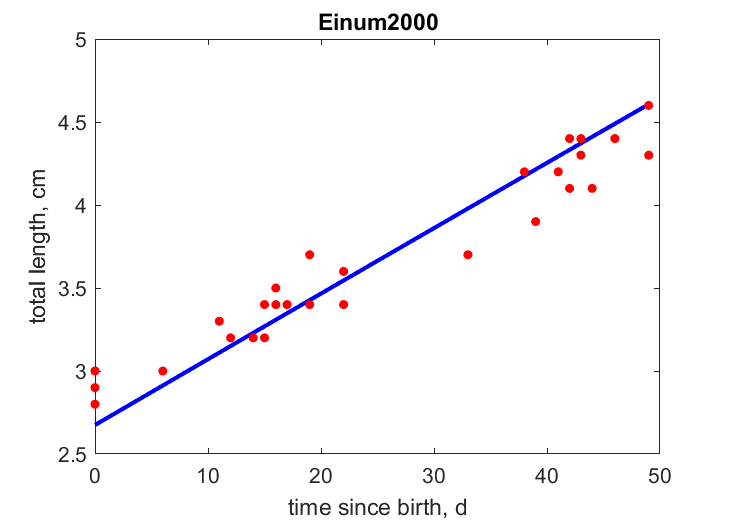
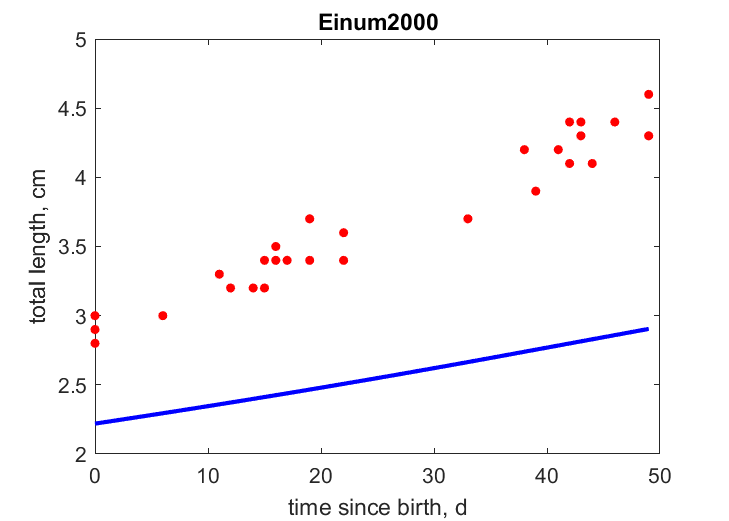
minor updates

diff --git a/abj model/mydata_Salmo_salar.m b/abj model/mydata_Salmo_salar.m
@@ -25,10 +25,10 @@ metaData.date_subm_mod_1 = [2019 03 13];
 metaData.email_mod_1    = {'sylvie.oddou(at)inra.fr'};            
 metaData.address_mod_1  = {'Research unit "Ecology of Mediterranean Forests", National Institute for Agronomic Research, France'};   
 
-metaData.author   = {'Helene Baillif'};    
-metaData.date_subm = [2019 03 13];              
-metaData.email    = {''};            
-metaData.address  = {'Joint research unit "Behavioral Ecology and Fish Population Biology", National Institute for Agronomic Research - University Pau Pays de l''ADour, France'};   
+metaData.author_mod_2   = {'Helene Baillif'};    
+metaData.date_subm_mod_2 = [2019 03 13];              
+metaData.email_mod_2    = {''};            
+metaData.address_mod_2  = {'Joint research unit "Behavioral Ecology and Fish Population Biology", National Institute for Agronomic Research - University Pau Pays de l''ADour, France'};   
 
 %% set data
 %% zero-variate data
@@ -1405,11 +1405,11 @@ txtData.bibkey = bibkey;
 txtData.comment = comment;
 
 %% Group plots
-set1 = {'tL_f0','tL_f25','tL_f50','tL_f75','tL_f100'}; comment1 = {''};
-set2 = {'tWw_f0','tWw_f25','tWw_f50','tWw_f75','tWw_f100'}; comment2 = {''};
-set3 = {'tWwVe_T8','tWwVe_T10','tWwVe_T12'}; comment3 = {''};
-set4 = {'tWwYe_T8','tWwYe_T10','tWwYe_T12'}; comment4 = {''};
-set5 = {'tWw_T4','tWw_T6','tWw_T8','tWw_T10','tWw_T14','tWw_T18'}; comment5 = {''};
+set1 = {'tL_f0','tL_f25','tL_f50','tL_f75','tL_f100'}; comment1 = {'Stefansson2009'};
+set2 = {'tWw_f0','tWw_f25','tWw_f50','tWw_f75','tWw_f100'}; comment2 = {'Stefansson2009'};
+set3 = {'tWwVe_T8','tWwVe_T10','tWwVe_T12'}; comment3 = {'Gunnes1979'};
+set4 = {'tWwYe_T8','tWwYe_T10','tWwYe_T12'}; comment4 = {'Gunnes1979'};
+set5 = {'tWw_T4','tWw_T6','tWw_T8','tWw_T10','tWw_T14','tWw_T18'}; comment5 = {'Handeland2008'};
 metaData.grp.sets = {set1, set2, set3, set4, set5};
 metaData.grp.comment = {comment1, comment2, comment3, comment4, comment5};
 

diff --git a/abj model/pars_init_Salmo_salar.m b/abj model/pars_init_Salmo_salar.m
@@ -38,10 +38,10 @@ par.f_LWw_parrs = par.f;  free.f_LWw_parrs = 0;   units.f_LWw_parrs = '-';  labe
 par.f_LWw_spawners = par.f;  free.f_LWw_spawners = 0;   units.f_LWw_spawners = '-';  label.f_LWw_spawners = 'scaled functional response for length-weight data'; 
 par.f_tL = 1;         free.f_tL  = 0;   units.f_tL = '-';         label.f_tL = 'scaled functional response for time-length data'; 
 par.f_tLWw_f0 = 0;      free.f_tLWw_f0 = 0;   units.f_tLWw_f0 = '-';      label.f_tLWw_f0 = 'scaled functional response for growth data at different food levels'; 
-par.f_tLWw_f100 = 1;    free.f_tLWw_f100 = 0;   units.f_tLWw_f100 = '-';    label.f_tLWw_f100 = 'scaled functional response for growth data at different food levels'; 
 par.f_tLWw_f25 = 0.25;  free.f_tLWw_f25 = 0;   units.f_tLWw_f25 = '-';     label.f_tLWw_f25 = 'scaled functional response for growth data at different food levels'; 
 par.f_tLWw_f50 = 0.5;   free.f_tLWw_f50 = 0;   units.f_tLWw_f50 = '-';     label.f_tLWw_f50 = 'scaled functional response for growth data at different food levels'; 
 par.f_tLWw_f75 = 0.75;  free.f_tLWw_f75 = 0;   units.f_tLWw_f75 = '-';     label.f_tLWw_f75 = 'scaled functional response for growth data at different food levels'; 
+par.f_tLWw_f100 = 1;    free.f_tLWw_f100 = 0;   units.f_tLWw_f100 = '-';    label.f_tLWw_f100 = 'scaled functional response for growth data at different food levels'; 
 % par.t0_tLWwf = 300;    free.t0_tLWwf   = 0;   units.t0_tLWwf = 'd';          label.t0_tLWwf = 'time since birth at 0 time for growth at different food levels'; 
 par.f_tWeVe_tWeYe = 1;  free.f_tWeVe_tWeYe = 0;   units.f_tWeVe_tWeYe = '-';  label.f_tWeVe_tWeYe = 'scaled functional response for embryo growth'; 
 par.f_tW = 1;         free.f_tW  = 0;   units.f_tW = '-';         label.f_tW = 'scaled functional response for time-weigth data'; 

diff --git a/abj model/run_Salmo_salar.m b/abj model/run_Salmo_salar.m
@@ -12,7 +12,7 @@ estim_options('default');
 estim_options('max_step_number',5e2); 
 estim_options('max_fun_evals',5e3);  
 
-estim_options('pars_init_method', 1);
+estim_options('pars_init_method', 2);
 estim_options('loss_function', 'sb');
 estim_options('report', 1);
 estim_options('results_output', 2);
